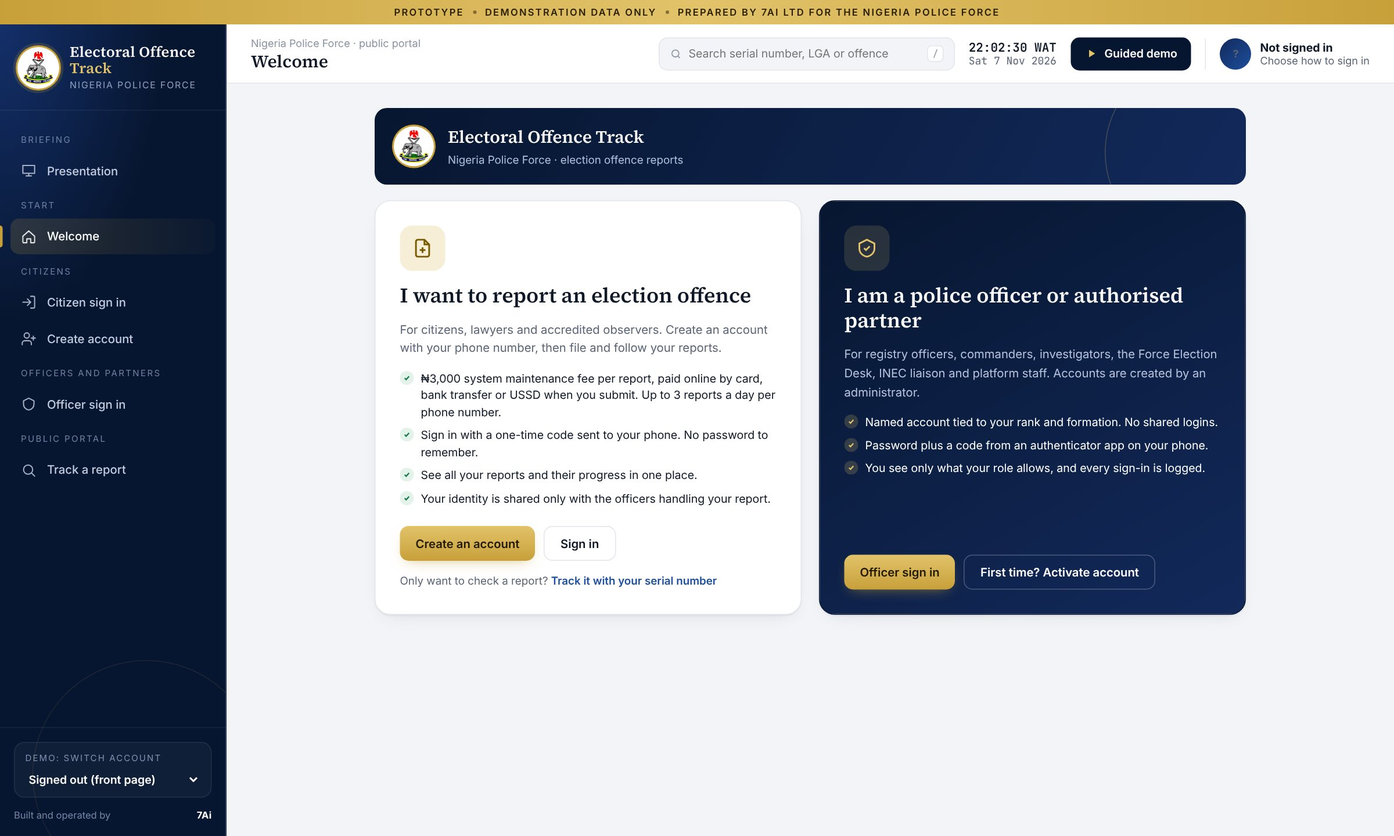
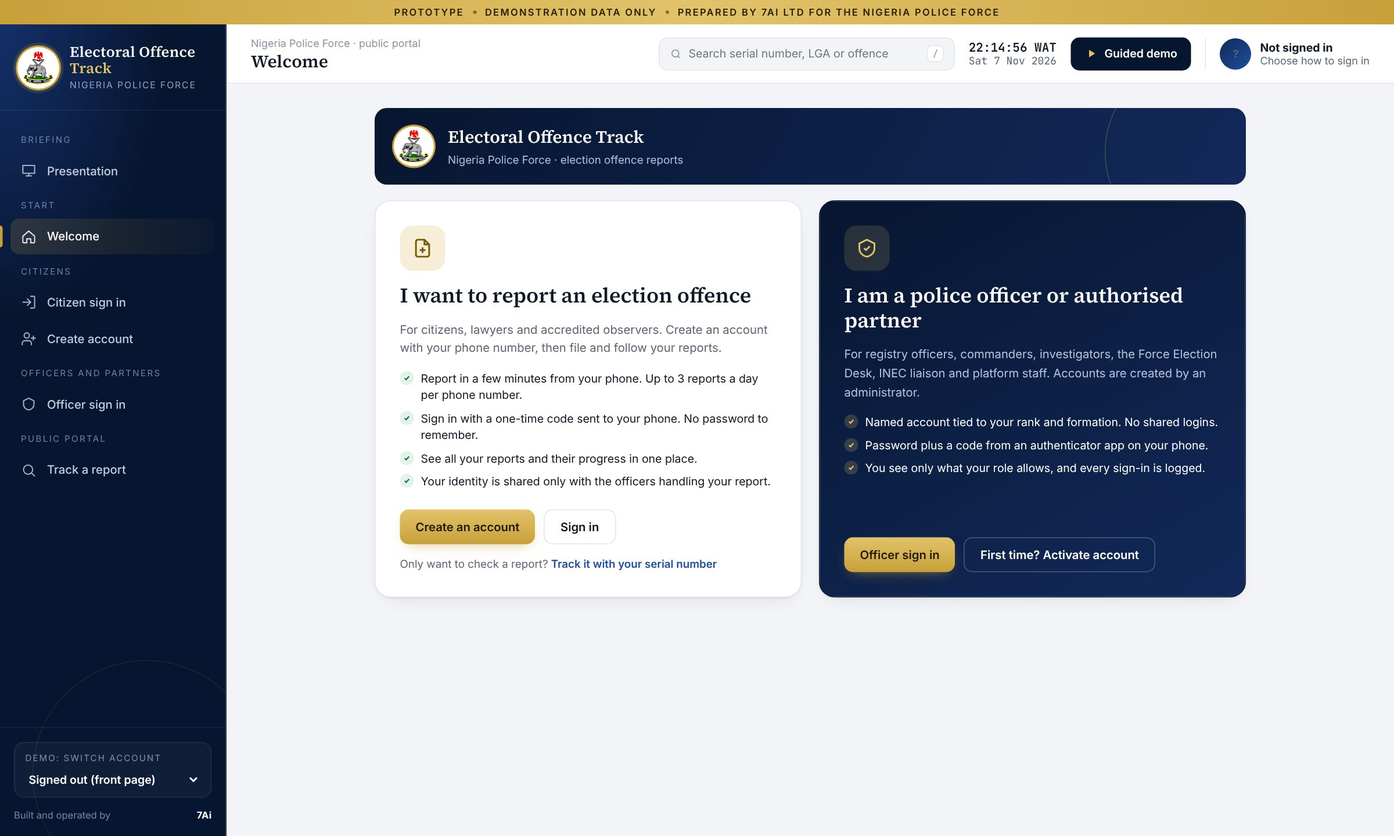
Add files via upload

Changed region(s): [[0.2812, 0.4375, 0.5625, 0.7188], [0.5938, 0.625, 0.9062, 0.75]]

diff --git a/index.html b/index.html
@@ -646,7 +646,7 @@ td .sub{font-size:11.5px;color:var(--faint)}
       <div class="view" id="v-file"><div class="pub">
         <div class="pub-band"><img src="logo.png" alt=""><div><b>Report an electoral offence</b><span>Nigeria Police Force · official report portal</span></div></div>
         <div class="trust">
-          <div><svg viewBox="0 0 24 24" fill="none" stroke="currentColor" stroke-width="2.4"><path d="M5 13l4 4L19 7"/></svg>A ₦3,000 system maintenance fee is paid online when you submit</div>
+          <div><svg viewBox="0 0 24 24" fill="none" stroke="currentColor" stroke-width="2.4"><path d="M5 13l4 4L19 7"/></svg>Serial number and QR code in seconds</div>
           <div><svg viewBox="0 0 24 24" fill="none" stroke="currentColor" stroke-width="2.4"><path d="M5 13l4 4L19 7"/></svg>Progress updates by SMS</div>
           <div><svg viewBox="0 0 24 24" fill="none" stroke="currentColor" stroke-width="2.4"><path d="M5 13l4 4L19 7"/></svg>Track your report with your serial number</div>
         </div>
@@ -701,10 +701,11 @@ td .sub{font-size:11.5px;color:var(--faint)}
               <div class="f" style="display:flex;align-items:flex-end"><span style="font-size:12px;color:var(--muted)">Verified through a licensed NIMC provider. Only the result is stored, not the number.</span></div>
             </div>
             <div class="decl" id="decl" style="margin-top:18px"><div class="bx"></div><div><b>Declaration of authenticity.</b> I declare that the information in this report is true to the best of my knowledge. I understand that making a false report is an offence and may lead to prosecution.</div></div>
+            <p style="font-size:11.5px;color:var(--faint);margin:10px 2px 0;line-height:1.5">By submitting, you agree to the <a href="#" id="tcLink" style="color:var(--muted);text-decoration:underline">terms and conditions</a> of Electoral Offence Track.</p>
           </div>
           <div class="pane" data-f="4">
             <div id="subBox"><h3 class="serif" style="font-size:22px;font-weight:600">Submitting your report</h3>
-            <p style="color:var(--muted);font-size:13px;margin:4px 0 18px">Your ₦3,000 system maintenance fee has been received. Your serial number is issued as soon as these checks pass.</p>
+            <p style="color:var(--muted);font-size:13px;margin:4px 0 18px">Your serial number is issued as soon as these checks pass.</p>
             <div class="card" style="box-shadow:none"><div class="card-b" style="padding:14px 18px"><div class="ssteps" id="subSteps" style="margin:0"></div></div></div></div>
             <div id="slipOut"></div>
           </div>
@@ -737,7 +738,7 @@ td .sub{font-size:11.5px;color:var(--faint)}
             <div class="di"><svg viewBox="0 0 24 24" fill="none" stroke="currentColor" stroke-width="1.8"><path d="M14 3H7a2 2 0 0 0-2 2v14a2 2 0 0 0 2 2h10a2 2 0 0 0 2-2V8zM14 3v5h5M12 11v6M9 14h6"/></svg></div>
             <h3>I want to report an election offence</h3>
             <p>For citizens, lawyers and accredited observers. Create an account with your phone number, then file and follow your reports.</p>
-            <ul><li>₦3,000 system maintenance fee per report, paid online by card, bank transfer or USSD when you submit. Up to 3 reports a day per phone number.</li><li>Sign in with a one-time code sent to your phone. No password to remember.</li><li>See all your reports and their progress in one place.</li><li>Your identity is shared only with the officers handling your report.</li></ul>
+            <ul><li>Report in a few minutes from your phone. Up to 3 reports a day per phone number.</li><li>Sign in with a one-time code sent to your phone. No password to remember.</li><li>See all your reports and their progress in one place.</li><li>Your identity is shared only with the officers handling your report.</li></ul>
             <div class="acts"><button class="btn btn-g" data-go2="csignup">Create an account</button><button class="btn btn-o" data-go2="csignin">Sign in</button></div>
             <div style="font-size:12.5px;color:var(--muted)">Only want to check a report? <a data-go2="track" style="color:var(--blue);font-weight:600;cursor:pointer">Track it with your serial number</a></div>
           </div>
@@ -919,12 +920,12 @@ td .sub{font-size:11.5px;color:var(--faint)}
 </div>
 
 <div class="modal" id="gwModal"><div class="gw">
-  <div class="gw-h"><div><b>System maintenance fee</b><br><span>Secure payment · demo</span></div><span>₦3,000.00</span></div>
+  <div class="gw-h"><div><b>Complete your submission</b><br><span>Secure payment · demo</span></div><span>₦3,000.00</span></div>
   <div class="gw-b">
-    <p style="font-size:12.5px;color:var(--muted);margin:0 0 14px">Every report carries a ₦3,000 system maintenance fee. Your report is submitted and your serial number issued as soon as payment is confirmed.</p>
+    <p style="font-size:12.5px;color:var(--muted);margin:0 0 14px">System maintenance fee, as set out in the terms and conditions. Your report is submitted and your serial number issued as soon as payment is confirmed.</p>
     <div class="gw-tabs" id="gwTabs"><button class="on">Card</button><button>Bank transfer</button><button>USSD</button></div>
     <div id="gwBody"></div>
-    <button class="btn btn-g" id="gwPay" style="width:100%;justify-content:center;margin-top:16px;height:46px">Pay ₦3,000 and submit</button>
+    <button class="btn btn-g" id="gwPay" style="width:100%;justify-content:center;margin-top:16px;height:46px">Pay and submit</button>
     <button id="gwCancel" style="width:100%;margin-top:10px;font-size:12.5px;color:var(--muted)">Cancel</button>
   </div>
 </div></div>
@@ -3356,7 +3357,7 @@ var FSTEPS=['Election','Offence and place','What happened','Your details','Your 
 function fShow(){$('#fStepper').innerHTML=FSTEPS.map(function(s,i){return '<div class="st '+(i===F.step?'on':i<F.step?'done':'')+'"><i>'+(i<F.step?'✓':i+1)+'</i>'+s+'</div>'}).join('');
  $$('#fCard .pane').forEach(function(p){p.classList.toggle('on',+p.dataset.f===F.step)});
  $('#fPrev').style.visibility=(F.step>0&&F.step<4)?'visible':'hidden';$('#fAct').style.display=F.step===4?'none':'flex';
- var nx=$('#fNext');nx.textContent=F.step===3?'Pay ₦3,000 and submit':'Continue';nx.style.display='';
+ var nx=$('#fNext');nx.textContent=F.step===3?'Submit report':'Continue';nx.style.display='';
  if(F.step===1)fPlace();if(F.step===2)fFiles()}
 function fElections(){$('#fElections').innerHTML=ELECTIONS.filter(function(e){return e.on}).slice(0,4).map(function(e){return '<button data-e="'+e.id+'" class="'+(F.election===e.id?'on':'')+'"><b>'+e.name+'</b><span>'+(e.date?dstr(e.date):'Date set per election')+'</span><br><small>Default: '+(e.level==='F'?'Force HQ':'State Command')+'</small></button>'}).join('');
  $$('#fElections button').forEach(function(b){b.onclick=function(){F.election=b.dataset.e;var e=ELECTIONS.filter(function(x){return x.id===F.election})[0];F.L=e.level;fElections();fLevel()}})}
@@ -3370,6 +3371,9 @@ $('#fState').onchange=function(){F.st=this.value;fPlace()};$('#fLga').onchange=f
 function fFiles(){$('#fFiles').innerHTML=F.files.map(function(f){return '<div class="file"><div class="fi2">'+f[2]+'</div><div><b>'+f[0]+'</b><span style="color:var(--faint)">'+f[1]+'</span></div><span class="pill p-green ok">Scanned, clean</span></div>'}).join('')}
 $('#fDrop').onclick=function(){F.files.push(['voice_note_witness.m4a','1.2 MB','<svg viewBox="0 0 24 24" fill="none" stroke="currentColor" stroke-width="2"><rect x="9" y="3" width="6" height="11" rx="3"/><path d="M5 11a7 7 0 0 0 14 0"/></svg>']);fFiles();toast('File uploaded and checked for malware')};
 $('#otpBtn').onclick=function(){var b=this;b.textContent='Code sent';$('#otpSt').textContent='SMS sent to '+$('#fPhone').value.replace(/(\d{4})\s?(\d{3})\s?(\d{4})/,'$1 *** $3');var code='482190',i=0;setTimeout(function t(){var c=$$('#otp i');if(i<6){c[i].textContent=code[i];i++;setTimeout(t,120)}else{$('#otp').classList.add('ok');$('#otpSt').innerHTML='<b style="color:var(--green)">Phone verified</b>';F.otp=true}},700)};
+var TCHTML='<ol style="margin:0;padding-left:18px;font-size:13px;line-height:1.6;color:var(--muted);display:grid;gap:8px"><li>This service is for reporting electoral offences only. Challenges to election results go to the Election Petition Tribunals.</li><li>You must give true information. Making a false report is an offence and may lead to prosecution.</li><li>Each phone number may submit up to 3 reports a day.</li><li>You must deliver the signed hard copy, marked with your serial number, to the formation named on your slip within 72 hours. Reports with no hard copy within 72 hours expire.</li><li>A system maintenance fee of ₦3,000 applies to each report and is paid online when the report is submitted. The fee covers the running and maintenance of the platform and is not refundable once a serial number is issued.</li><li>Your personal data is processed under the Nigeria Data Protection Act 2023 and shared only with the officers handling your report, and with INEC where a case file is prepared for prosecution.</li></ol>';
+$('#tcLink').onclick=function(e){e.preventDefault();$('#mX').style.display='';$('#mT').textContent='Terms and conditions';$('#mB').innerHTML=TCHTML;$('#mModal').classList.add('on')};
+if(!$('#mX').onclick)$('#mX').onclick=function(){$('#mModal').classList.remove('on')};
 $('#decl').onclick=function(){F.decl=!F.decl;this.classList.toggle('on',F.decl)};
 $('#fPrev').onclick=function(){if(F.step>0){F.step--;fShow()}};
 $('#fNext').onclick=function(){if(F.step===3){if(!F.otp){toast('Verify your phone number first');$('#otpBtn').click();return}if(!F.decl){toast('Tick the declaration of authenticity to continue');$('#decl').classList.add('flash');return}var today=P.filter(function(p){return p.mine&&Date.now()-p.paid<864e5}).length;if(today>=3){toast('Daily limit reached: each phone number can submit up to 3 reports a day');return}F.today=today;$('#gwModal').classList.add('on');return}F.step++;fShow()};
@@ -3378,7 +3382,7 @@ function gwTab(i){$$('#gwTabs button').forEach(function(x,j){x.classList.toggle(
 $$('#gwTabs button').forEach(function(b,i){b.onclick=function(){gwTab(i)}});gwTab(0);
 $('#gwCancel').onclick=function(){$('#gwModal').classList.remove('on');toast('Payment cancelled. Your report has not been submitted')};
 $('#gwPay').onclick=function(){$('#gwModal').classList.remove('on');F.step=4;fShow();submitReport(F.today||0)};
-function subSteps(n,today){var S=[['Fee paid','₦3,000 system maintenance fee confirmed by the payment gateway'],['Phone verified','Code confirmed by SMS'],['Declaration recorded','Declaration of authenticity accepted'],['Daily limit checked',(today+1)+' of 3 reports today from this phone number'],['Serial number issued','Your report is now registered'],['SMS and email sent','Your slip has been sent to you']];$('#subSteps').innerHTML=S.map(function(x,i){return '<div class="ss '+(i<n?'on ok':i===n?'on run':'')+'" style="opacity:'+(i<=n?1:.35)+';color:var(--text)"><i style="border-color:#C9D0DC"></i><div><b>'+x[0]+'</b><span style="color:var(--muted)">'+x[1]+'</span></div></div>'}).join('')}
+function subSteps(n,today){var S=[['Payment confirmed','Confirmed by the payment gateway'],['Phone verified','Code confirmed by SMS'],['Declaration recorded','Declaration of authenticity accepted'],['Daily limit checked',(today+1)+' of 3 reports today from this phone number'],['Serial number issued','Your report is now registered'],['SMS and email sent','Your slip has been sent to you']];$('#subSteps').innerHTML=S.map(function(x,i){return '<div class="ss '+(i<n?'on ok':i===n?'on run':'')+'" style="opacity:'+(i<=n?1:.35)+';color:var(--text)"><i style="border-color:#C9D0DC"></i><div><b>'+x[0]+'</b><span style="color:var(--muted)">'+x[1]+'</span></div></div>'}).join('')}
 function submitReport(today){$('#subBox').style.display='block';$('#slipOut').innerHTML='';var k=0;subSteps(0,today);var t=setInterval(function(){k++;subSteps(k,today);if(k>=6){clearInterval(t);setTimeout(issue,250)}},450)}
 function issue(){var p=mkReport({L:F.L,st:F.st,lga:F.lga,ward:F.ward,unitNo:F.unit,election:F.election,cat:F.cat,desc:$('#fDesc').value,acc:$('#fAcc').value,name:$('#fName').value,phone:$('#fPhone').value.replace(/\s/g,''),paid:new Date(),when:new Date(),files:F.files.map(function(f){return f[0]}),mine:true});
  P.unshift(p);addAudit(p,'System','Fee paid, report submitted, serial issued','₦3,000 system maintenance fee · receipt '+p.receipt+' · phone verified · declaration accepted');F.p=p;saveMine();bump(p,true);$('#subBox').style.display='none';$('#slipOut').innerHTML=slipHtml(p);
@@ -3387,9 +3391,9 @@ function issue(){var p=mkReport({L:F.L,st:F.st,lga:F.lga,ward:F.ward,unitNo:F.un
  $('#slipReg').onclick=function(){setRole(p.L==='F'?'registry':'registry');go('registry');$('#rIn').value=p.serial;rCheck()};
  toast('Report submitted. Serial number '+p.serial+' sent by SMS')}
 function serialParts(s){var a=s.split('-'),lab=['Offence','Level','State','Year','Sequence','Check'];return '<div class="serial">'+a.map(function(x,i){return '<span'+(i===5?' class="cd"':'')+'>'+x+(i<5?'-':'')+'<em>'+lab[i]+'</em></span>'}).join('')+'</div>'}
-function slipHtml(p){var due=new Date(p.paid.getTime()+72*3600000);return '<div class="slip"><div class="wm"><span>SPECIMEN</span></div><div class="slip-h"><img src="'+LOGO+'" alt=""><div><h4>NIGERIA POLICE FORCE</h4><p>Electoral Offence Report · registration slip</p></div><span class="pill p-green">Registered · fee paid</span></div>'+
+function slipHtml(p){var due=new Date(p.paid.getTime()+72*3600000);return '<div class="slip"><div class="wm"><span>SPECIMEN</span></div><div class="slip-h"><img src="'+LOGO+'" alt=""><div><h4>NIGERIA POLICE FORCE</h4><p>Electoral Offence Report · registration slip</p></div><span class="pill p-green">Registered</span></div>'+
  serialParts(p.serial)+'<div style="font-size:12px;color:var(--muted)">Write this number on the top-right corner of every page of your signed report.</div>'+
- '<div class="slip-g"><div class="kv"><span>Addressed to</span><b>'+(p.L==='F'?'Force Headquarters (federal)':(p.st==='FC'?'FCT Command':SB[p.st].name+' State Command'))+'</b><span>Deliver hard copy to</span><div>'+deskFor(p.L,p.st)+'</div><span>Offence</span><div>'+p.cat+'</div><span>Polling unit</span><div class="mono">'+p.pu+' · '+p.lga+'</div><span>Citizen</span><div>'+esc(p.name)+'</div><span>Registered</span><div>'+dt(p.paid)+' WAT</div><span>Fee paid</span><div>₦3,000 system maintenance fee · <span class="mono">'+p.receipt+'</span></div></div><div class="qr">'+qrSvg(p.serial)+'</div></div>'+
+ '<div class="slip-g"><div class="kv"><span>Addressed to</span><b>'+(p.L==='F'?'Force Headquarters (federal)':(p.st==='FC'?'FCT Command':SB[p.st].name+' State Command'))+'</b><span>Deliver hard copy to</span><div>'+deskFor(p.L,p.st)+'</div><span>Offence</span><div>'+p.cat+'</div><span>Polling unit</span><div class="mono">'+p.pu+' · '+p.lga+'</div><span>Citizen</span><div>'+esc(p.name)+'</div><span>Registered</span><div>'+dt(p.paid)+' WAT</div><span>Receipt</span><div class="mono">'+p.receipt+'</div></div><div class="qr">'+qrSvg(p.serial)+'</div></div>'+
  '<div class="deadline">'+IC.warn.replace('<svg','<svg style="width:20px;height:20px;flex:none"')+'<div>Deliver the signed hard copy by <b>'+dt(due)+' WAT</b> (72 hours). You will get an SMS reminder after 48 hours. If it is not received in time, the report expires and must be submitted again.</div></div>'+
  '<div class="sent"><div>'+IC.ok+'SMS sent</div><div>'+IC.ok+'Email sent</div><div>'+IC.ok+'Receipt sent</div></div></div>'+
  '<div style="display:flex;gap:10px;flex-wrap:wrap;margin-top:18px" class="no-print"><button class="btn btn-g" onclick="window.print()">Print slip</button><button class="btn btn-p" id="slipTrack">Track this report</button><button class="btn btn-o" id="slipReg">Demo: take it to the registry desk</button><button class="btn btn-o" id="slipAgain">File another</button></div>'}
@@ -3540,6 +3544,13 @@ $('#cuDone').onclick=function(){CU={name:$('#cuName').value.trim(),phone:$('#cuP
 // citizen sign in
 $('#ciSend').onclick=function(){if($('#ciPhone').value.replace(/\D/g,'').length<11){toast('Enter an 11-digit phone number');return}$('#ciStep1').style.display='none';$('#ciStep2').style.display='block';$('#ciTo').textContent=mask($('#ciPhone').value);toast('Code sent by SMS');otpFill('#ciOtp',function(){$('#ciDone').disabled=false})};
 $('#ciDone').onclick=function(){var ph=$('#ciPhone').value.replace(/\s/g,'');if(!CU||CU.phone!==ph)CU={name:CU&&CU.phone===ph?CU.name:'Adaeze Nwankwo',phone:ph,mail:''};try{localStorage.setItem('eotrack-user',JSON.stringify(CU))}catch(e){}addAudit(null,CU.name,'Citizen signed in','OTP verified');$('#ciStep1').style.display='block';$('#ciStep2').style.display='none';$('#ciDone').disabled=true;setRole('citizen');toast('Signed in')};
+function showTC(first){if(!CU||CU.tc)return;$('#mT').textContent='Terms and conditions';$('#mX').style.display='none';
+$('#mB').innerHTML='<p style="font-size:13px;color:var(--text);margin:0 0 12px">'+(first?'Welcome. Before you continue, please read and accept the terms and conditions of Electoral Offence Track.':'Please read and accept the terms and conditions to continue.')+'</p>'+TCHTML+'<div style="display:flex;gap:10px;justify-content:flex-end;margin-top:18px"><button class="btn btn-o" id="tcNo">Decline and sign out</button><button class="btn btn-g" id="tcAgree">I agree</button></div>';
+$('#mModal').classList.add('on');
+$('#tcAgree').onclick=function(){CU.tc=new Date().toISOString();try{localStorage.setItem('eotrack-user',JSON.stringify(CU))}catch(e){}addAudit(null,CU.name,'Terms and conditions accepted','on '+(first?'sign-up':'first sign-in'));$('#mModal').classList.remove('on');$('#mX').style.display='';toast('Thank you. You can now file and follow your reports')};
+$('#tcNo').onclick=function(){$('#mModal').classList.remove('on');$('#mX').style.display='';signOut()}}
+(function(){var a=$('#cuDone').onclick;$('#cuDone').onclick=function(){a.apply(this,arguments);showTC(true)};var b=$('#ciDone').onclick;$('#ciDone').onclick=function(){b.apply(this,arguments);showTC(false)}})();
+
 // my reports
 function renderMine(){$('#mineHello').textContent=CU?'Welcome, '+CU.name.split(' ')[0]:'Your reports';var L=P.filter(function(p){return p.mine});
  $('#mineList').innerHTML=L.length?L.map(function(p){return '<div class="pcard" data-t="'+p.serial+'"><div><div class="ptag">'+p.serial+'</div><div class="meta">'+p.cat+' · '+(p.L==='F'?'Force Headquarters':(p.st==='FC'?'FCT Command':SB[p.st].name+' State Command'))+' · filed '+dstr(p.paid)+'</div></div>'+statusPill(p)+'</div>'}).join(''):'<div class="card"><div class="card-b" style="text-align:center;padding:40px"><h3 class="serif" style="font-size:20px;font-weight:600">No reports yet</h3><p style="font-size:13px;color:var(--muted);margin:6px 0 16px">When you file a report, it appears here with its progress.</p><button class="btn btn-g" data-go2="file">File your first report</button></div></div>';
@@ -3567,7 +3578,7 @@ var TOUR=[
  ['guest','welcome',null,'Front door','Two ways in','Citizens create an account with their phone number. Officers and partners sign in with a named account, a password and a code from an authenticator app.'],
  ['guest','csignup',null,'Citizen account','Sign up with a phone number','No password to remember. A one-time code is sent by SMS each time, and the citizen accepts the privacy notice before anything is stored.'],
  ['citizen','file',0,'Citizen','A citizen reports an electoral offence','They choose the election and who should handle it: Force Headquarters for presidential matters, the State Command for the rest.'],
- ['citizen','file',3,'Submit','Pay the fee, registered in seconds','The citizen pays a ₦3,000 system maintenance fee online by card, bank transfer or USSD. Once payment is confirmed, the serial number is issued at once and sent by SMS with a receipt. Each phone number can submit up to 3 reports a day.'],
+ ['citizen','file',3,'Submit','Registered in seconds','Once the phone is verified, the declaration is ticked and the terms are accepted, the serial number is issued at once and sent by SMS. Each phone number can submit up to 3 reports a day.'],
  ['registry','registry',null,'Registry','The hard copy meets the system','The registry officer scans or types the serial number. Typos, invented numbers and reports meant for another command are rejected on the spot, even offline. Try the sample buttons.'],
  ['guest','ssignin',null,'Officer sign in','Two-factor sign-in for every officer','Every officer, INEC liaison and platform admin has a named account with a password and an authenticator code. Pick a demo account to see the role they land in.'],
  ['cmd','dash',null,'Commander','The Commissioner sees the whole command, live','Every report from payment to outcome. Reports whose hard copy does not arrive within 72 hours expire automatically. Stalled cases are flagged.'],

diff --git a/slides.html b/slides.html
@@ -124,7 +124,7 @@ ul.ck li b{font-weight:600}
     <div class="kick rise">What the application is</div>
     <h2 class="rise d1">Report online. The paper process stays.</h2>
     <div style="display:grid;grid-template-columns:repeat(4,1fr);gap:24px;margin-top:70px">
-      <div class="dcard rise d2" style="padding:40px 34px;min-height:360px"><div class="num" style="font-size:72px;color:var(--gold2);line-height:.8">01</div><h3 style="font-family:var(--serif);font-size:32px;font-weight:600;margin:26px 0 12px">Report online</h3><p style="font-size:21px;line-height:1.55;color:#AFC0DE">A citizen reports an electoral offence, pays a ₦3,000 system maintenance fee, and receives a serial number and QR code.</p></div>
+      <div class="dcard rise d2" style="padding:40px 34px;min-height:360px"><div class="num" style="font-size:72px;color:var(--gold2);line-height:.8">01</div><h3 style="font-family:var(--serif);font-size:32px;font-weight:600;margin:26px 0 12px">Report online</h3><p style="font-size:21px;line-height:1.55;color:#AFC0DE">A citizen reports an electoral offence online and receives a serial number and QR code.</p></div>
       <div class="dcard rise d3" style="padding:40px 34px;min-height:360px"><div class="num" style="font-size:72px;color:var(--gold2);line-height:.8">02</div><h3 style="font-family:var(--serif);font-size:32px;font-weight:600;margin:26px 0 12px">Deliver as today</h3><p style="font-size:21px;line-height:1.55;color:#AFC0DE">The citizen writes the number on the signed hard copy and delivers it to the formation named on the slip.</p></div>
       <div class="dcard rise d4" style="padding:40px 34px;min-height:360px"><div class="num" style="font-size:72px;color:var(--gold2);line-height:.8">03</div><h3 style="font-family:var(--serif);font-size:32px;font-weight:600;margin:26px 0 12px">Registry confirms</h3><p style="font-size:21px;line-height:1.55;color:#AFC0DE">The registry enters the number to confirm receipt. The report enters the commander's queue.</p></div>
       <div class="dcard rise d5" style="padding:40px 34px;min-height:360px"><div class="num" style="font-size:72px;color:var(--gold2);line-height:.8">04</div><h3 style="font-family:var(--serif);font-size:32px;font-weight:600;margin:26px 0 12px">Citizen updated</h3><p style="font-size:21px;line-height:1.55;color:#AFC0DE">Progress updates by SMS and online, without visiting the station.</p></div>
@@ -163,7 +163,7 @@ ul.ck li b{font-weight:600}
     <h2 class="rise d1">From the citizen's phone to police action, on record</h2>
     <div class="flow" style="grid-template-columns:repeat(6,1fr)">
       <div class="rise d1"><div class="crest"><span class="num" style="color:var(--gold2);font-size:42px">1</span></div><h3>Sign up</h3><p>Free account with a phone number, verified by SMS code.</p></div>
-      <div class="rise d1"><div class="crest"><span class="num" style="color:var(--gold2);font-size:42px">2</span></div><h3>Report and pay</h3><p>Offence, polling unit, evidence, a declaration and the ₦3,000 fee.</p></div>
+      <div class="rise d1"><div class="crest"><span class="num" style="color:var(--gold2);font-size:42px">2</span></div><h3>Report</h3><p>Election, offence, polling unit, evidence and a declaration.</p></div>
       <div class="rise d2"><div class="crest"><span class="num" style="color:var(--gold2);font-size:42px">3</span></div><h3>Slip</h3><p>Serial number and QR code at once, by SMS and email.</p></div>
       <div class="rise d3"><div class="crest"><span class="num" style="color:var(--gold2);font-size:42px">4</span></div><h3>Deliver</h3><p>Signed hard copy to the named desk within 72 hours.</p></div>
       <div class="rise d4"><div class="crest"><span class="num" style="color:var(--gold2);font-size:42px">5</span></div><h3>Confirm</h3><p>Registry enters the number. The commander minutes it.</p></div>
@@ -199,7 +199,7 @@ ul.ck li b{font-weight:600}
       <div class="crest rise" style="width:150px;height:150px;margin:0 auto"><img src="logo.png"></div>
       <div class="kick rise d1" style="margin-top:56px">Live demonstration</div>
       <h2 class="rise d2" style="font-size:96px;margin-top:22px">See it working</h2>
-      <p class="lead rise d3" style="margin:26px auto 0;max-width:1200px">Sign up · report an offence · pay · get a slip · confirm at the registry · minute it · follow it</p>
+      <p class="lead rise d3" style="margin:26px auto 0;max-width:1200px">Sign up · report an offence · get a slip · confirm at the registry · minute it · follow it</p>
       <a href="index.html" onclick="if(window.parent!==window){event.preventDefault();parent.closeDeck()}" class="rise d4" style="display:inline-flex;align-items:center;gap:14px;margin-top:60px;padding:22px 40px;border-radius:16px;background:linear-gradient(180deg,var(--gold2),var(--gold));color:#231900;font-size:26px;font-weight:700;text-decoration:none">Open the live demo →</a>
     </div>
   </div>
@@ -211,11 +211,11 @@ ul.ck li b{font-weight:600}
   <div class="pad" style="display:grid;grid-template-columns:520px 1fr;gap:70px;align-items:center">
     <div>
       <div class="kick rise">For the citizen</div>
-      <h2 class="rise d1" style="font-size:60px">Simple, paid online and on the record</h2>
+      <h2 class="rise d1" style="font-size:60px">Simple, quick and on the record</h2>
       <ul class="ck rise d2" style="margin-top:44px">
         <li><span><b>Sign up with a phone number.</b> A code by SMS, no password.</span></li>
         <li><span><b>INEC polling unit codes</b> picked from a list.</span></li>
-        <li><span><b>₦3,000 system maintenance fee</b> paid by card, transfer or USSD.</span></li>
+        <li><span><b>Declaration</b> that the report is genuine.</span></li>
         <li><span><b>Up to 3 reports a day</b> per phone, to stop abuse.</span></li>
       </ul>
     </div>
@@ -2731,7 +2731,7 @@ var parts=[['EO','Offence'],['S','Level'],['LA','State'],['26','Year'],['418203'
 document.getElementById('anat').innerHTML=parts.map(function(p,k){return '<div style="display:flex;flex-direction:column;gap:18px"><div class="mono" style="font-size:92px;font-weight:600;color:'+(k===5?'var(--gold2)':'#fff')+';letter-spacing:-.02em;line-height:1">'+p[0]+(k<5?'<span style="color:var(--gold)">-</span>':'')+'</div><div style="border-top:4px solid var(--gold);padding-top:14px;font-size:19px;letter-spacing:.14em;text-transform:uppercase;color:#AFC0DE;font-weight:600">'+p[1]+'</div></div>'}).join('');
 var q=qrcode(0,'M');q.addData('EO-S-LA-26-418203-4');q.make();var n=q.getModuleCount(),d='';for(var y=0;y<n;y++)for(var x=0;x<n;x++)if(q.isDark(y,x))d+='M'+x+' '+y+'h1v1h-1z';
 document.getElementById('bigqr').innerHTML='<svg viewBox="0 0 '+n+' '+n+'" width="100%" height="100%" shape-rendering="crispEdges"><path d="'+d+'" fill="#071630"/></svg>';
-var CAP=[['Online submission','Report details, evidence upload, phone verification, a declaration and online payment of the ₦3,000 fee.'],['Serial numbering','Every number has a check digit, so fake or mistyped numbers are rejected at any desk, even offline.'],['Routing','Reports go to Force Headquarters or the relevant State Command. Each command sees only its own.'],['Registry confirmation','Officers confirm receipt of the hard copy against the serial number.'],['Citizen updates','Progress by SMS or online, without visiting the station.'],['Electoral offence module','All election types, offence categories, INEC polling unit codes, election desk dashboards, case files for INEC.'],['Statistics','Volumes and trends for each formation, and a national count of reports.'],['Integration','Designed to connect to POSSAP, the Crime and Incident Database and NPF Vigilant. Works on low bandwidth.']];
+var CAP=[['Online submission','Report details, evidence upload, phone verification and a declaration that the report is genuine.'],['Serial numbering','Every number has a check digit, so fake or mistyped numbers are rejected at any desk, even offline.'],['Routing','Reports go to Force Headquarters or the relevant State Command. Each command sees only its own.'],['Registry confirmation','Officers confirm receipt of the hard copy against the serial number.'],['Citizen updates','Progress by SMS or online, without visiting the station.'],['Electoral offence module','All election types, offence categories, INEC polling unit codes, election desk dashboards, case files for INEC.'],['Statistics','Volumes and trends for each formation, and a national count of reports.'],['Integration','Designed to connect to POSSAP, the Crime and Incident Database and NPF Vigilant. Works on low bandwidth.']];
 document.getElementById('caps').innerHTML=CAP.map(function(c,k){return '<div class="dcard rise d'+(1+(k%4))+'" style="padding:40px 32px;min-height:330px"><div style="font-size:16px;font-weight:700;letter-spacing:.12em;color:var(--gold2)">'+String(k+1).padStart(2,'0')+'</div><h4 style="font-family:var(--serif);font-size:28px;font-weight:600;margin:14px 0 10px;color:#fff">'+c[0]+'</h4><p style="font-size:19px;line-height:1.5;color:#AFC0DE">'+c[1]+'</p></div>'}).join('');
 function days(t){return Math.max(0,Math.ceil((new Date(t)-new Date())/864e5))}
 document.getElementById('cd1').textContent=days('2027-01-16T08:00:00+01:00');document.getElementById('cd2').textContent=days('2027-02-06T08:00:00+01:00');
